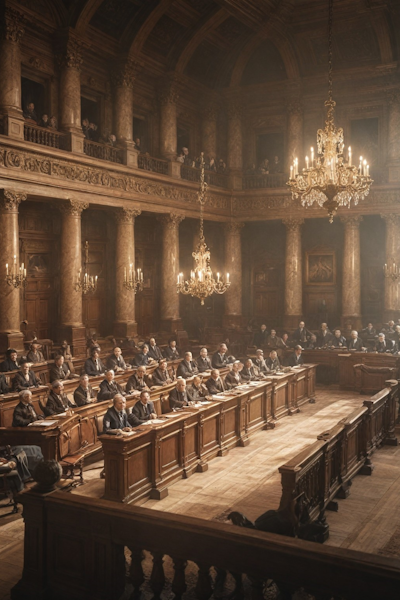
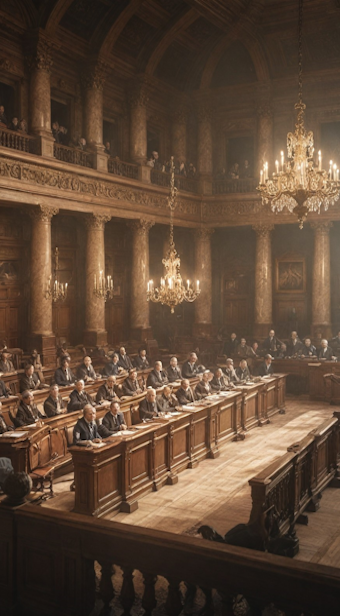
refactor: crop background images to remove blanks

diff --git a/README.md b/README.md
@@ -18,9 +18,9 @@ An add-on porting the `Seat of Power` features to the New World, with a new monu
 You'll be able to choose laws, as well as pick up specialists in every field.
 
 Version: 
-- 1.0.3
+- 1.0.4
 
 Downloads:
 - Mod.io: [here](https://mod.io/g/anno-1800/m/new-world-seat-of-power)
-- .zip Release: [here](https://github.com/Khorbos/AnnoNewWorldMods/releases/download/v1.0.3/NewWorldSeatOfPower-1.0.3.zip)
+- .zip Release: [here](https://github.com/Khorbos/AnnoNewWorldMods/releases/download/v1.0.3/NewWorldSeatOfPower-1.0.4.zip)
 
